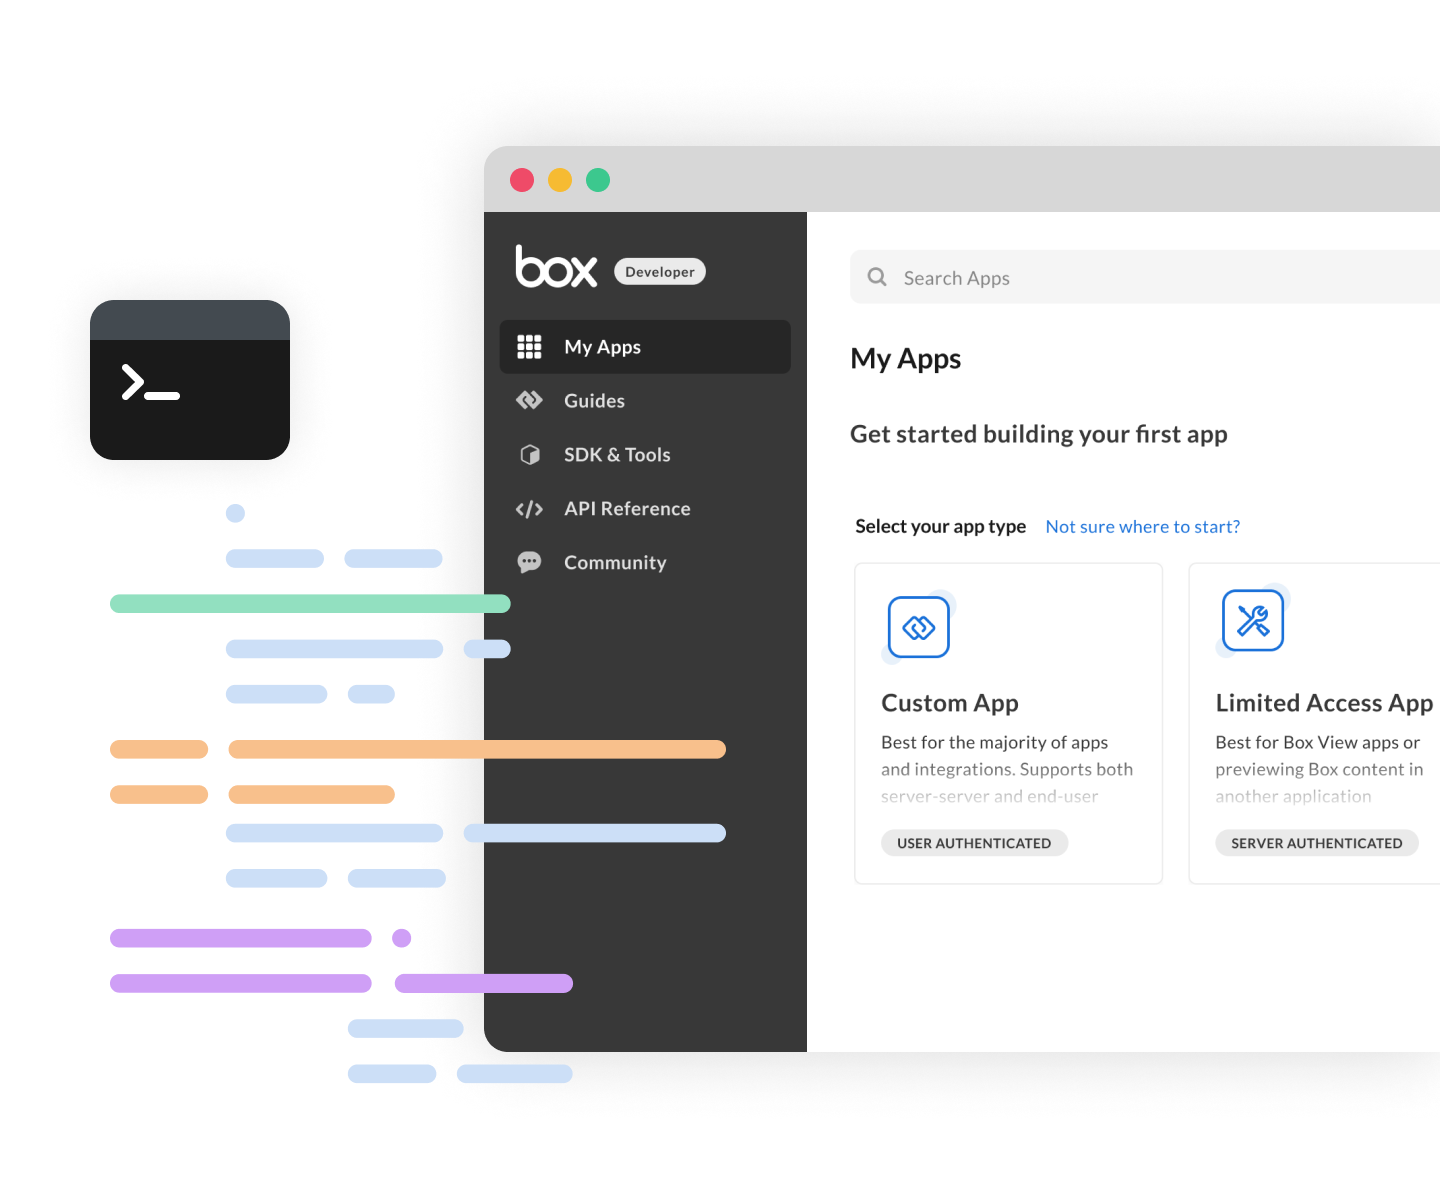
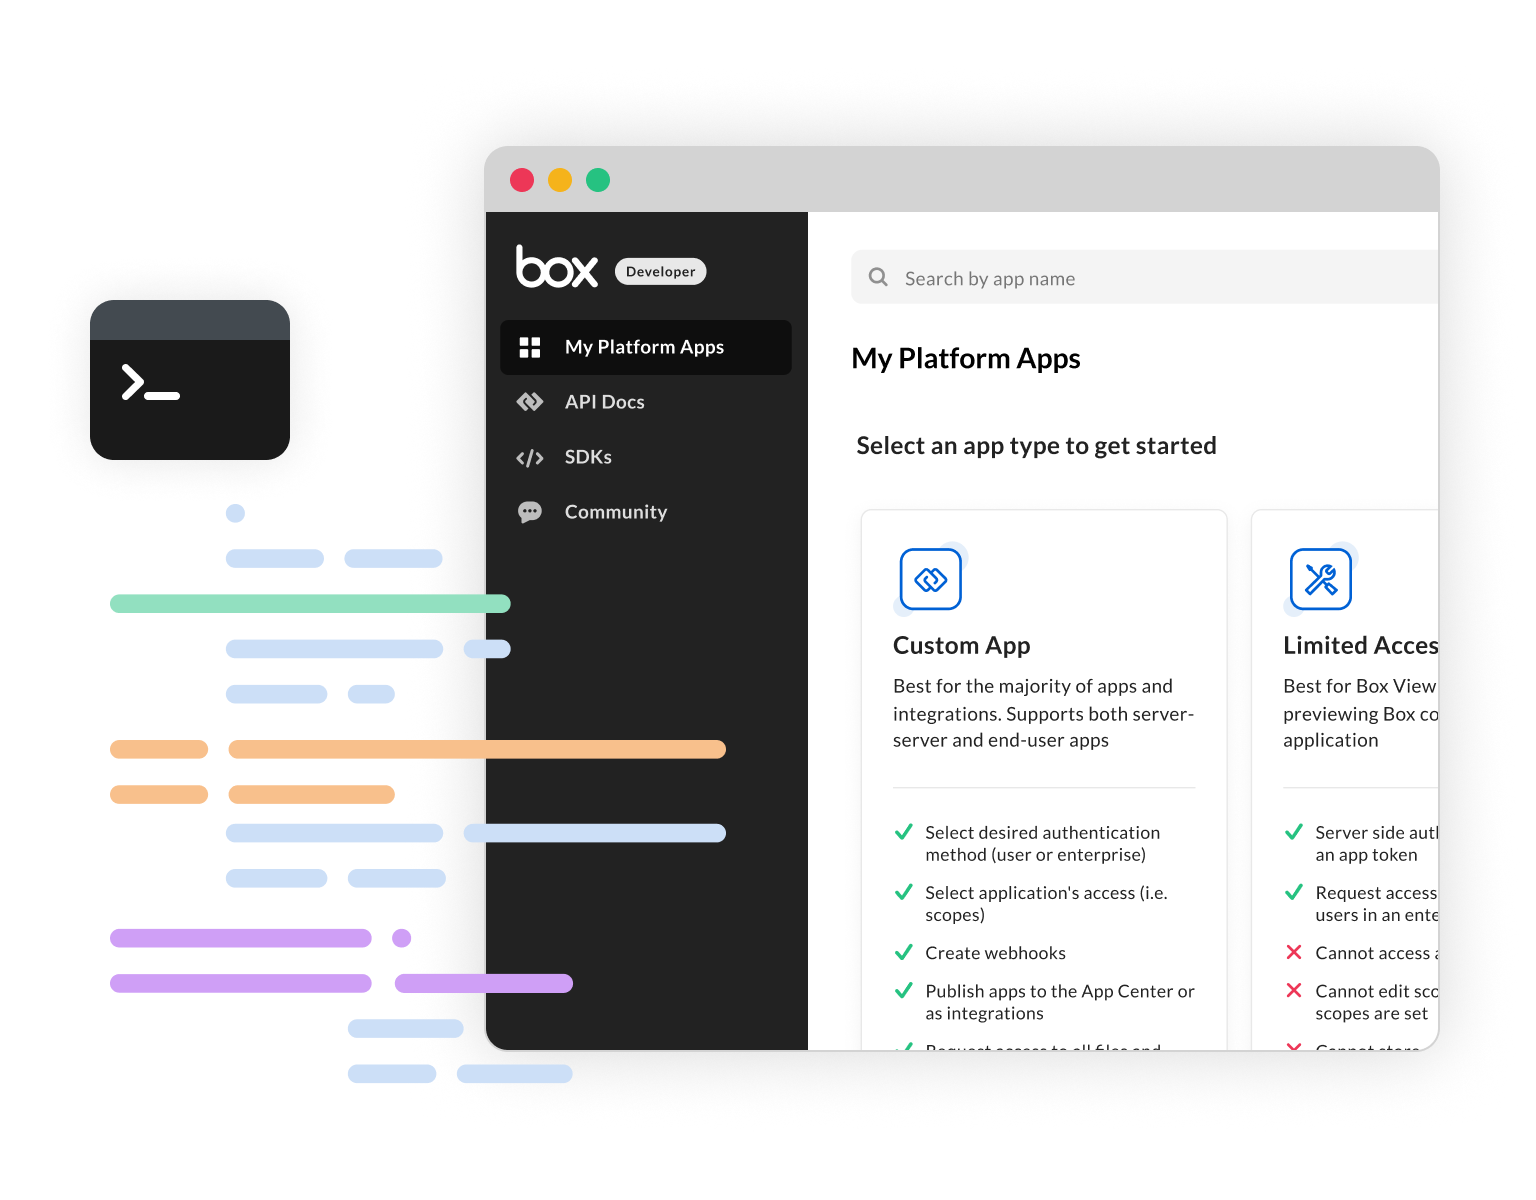
Update hero image and add Nov newsletter (#655)
* Resolve conflicts

* Resolve conflicts

* Update hero image and add Nov newsletter

* Remove dot from image copy

diff --git a/content/pages/newsletter/index.md b/content/pages/newsletter/index.md
@@ -47,6 +47,7 @@ Below is an archive of previous newsletters sent out.
 | 2024 | August    | [Preview][download-2024-aug]|
 | 2024 | September | [Preview][download-2024-sep]|
 | 2024 | October   | [Preview][download-2024-oct]|
+| 2024 | November   | [Preview][download-2024-nov]|
 
 [dc]: https://cloud.app.box.com/developers/console
 [download-2019-q3]: https://cloud.box.com/s/m7i1r21wudyl2cjnhotgvggou36w8rbx
@@ -78,3 +79,4 @@ Below is an archive of previous newsletters sent out.
 [download-2024-aug]: https://cloud.box.com/s/yo148etyhkg8q0qqdfzm88w73rp7z25o
 [download-2024-sep]: https://cloud.box.com/s/00xnegyvme78z3ii95iehnl1grvm9qp0
 [download-2024-oct]: https://cloud.box.com/s/etv2k77icxmt4jsfmb86g4tlubcohm2y
+[download-2024-nov]: https://cloud.box.com/s/2lxixeatcg6tdmc5rchheit6mpw3r582
